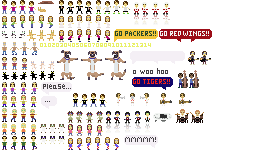
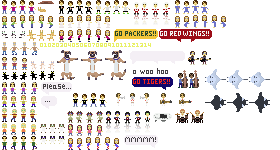
added hawaii scene

Changed region(s): [[0.6286, 0.0, 0.8286, 0.1867], [0.7429, 0.6133, 0.9714, 0.7467], [0.7143, 0.4533, 0.9714, 0.5867]]

diff --git a/lib_min/l7.min.js b/lib_min/l7.min.js
@@ -55,8 +55,8 @@ L7.CanvasBoardRenderMixin={render:function(a,b,c,d){this.angle&&(b.save(),b.rota
 0;i<r.length;++i)if(n=r[i],s=n.getScale(),_.isNumber(s)||(s=1),m=n.getColor())b.fillStyle=L7.Color.toCssString(m),m=a*s|0,q=n.getOffset(),l=k=0,q&&(k=a*q.x|0,l=a*q.y|0),q=a/2-m/2,b.fillRect((n.x-j)*(a+e)+e+q+h+k,(n.y-f)*(a+e)+e+q+g+l,m,m);for(i=0;i<this.freeActors.length;++i)if(e=this.freeActors[i],m=L7.Color.toCssString(e.color))b.fillStyle=m,b.fillRect(e.position.x-c,e.position.y-d,a,a);this.angle&&b.restore()}};
 (function(){L7.HitManager=function(){};L7.HitManager.prototype={detectHitsForActor:function(a){for(var b=a.pieces.length;b--;){var c=a.board.tileAt(a.pieces[b].position);c&&this._detectTileHits(c)}},detectHits:function(a){a.forEach(function(a){this._detectTileHits(a)},this)},_detectTileHits:function(a){a.each(function(b){_.isObject(b.owner)&&_.isObject(b.owner.hitDetection)&&("undefined"===typeof b.owner.hitDetection.enabled||b.owner.hitDetection.enabled.call(b.owner))&&_.each(b.owner.hitDetection,
 function(c,d){a.tag===d&&c.call(b.owner,a,a);a.each(function(e){e!==b&&e.owner&&e.owner.team===d&&c.call(b.owner,a,e.owner)},this)},this)},this)}}})();
-(function(){L7.ParallaxBoard=function(a){_.extend(this,a);this.boards=this.boards||[];this.boards.forEach(function(a,c){if(!_.isNumber(a.parallaxRatio))throw Error("ParallaxBoard: given a board that lacks a parallax ratio");_.isNumber(a.depth)||(a.depth=c)},this)};L7.ParallaxBoard.prototype={update:function(){var a=_.toArray(arguments);this.boards.forEach(function(b){b.update.apply(b,a)})},render:function(a,b,c,d,e){this.boards.forEach(function(f){!1!==f.visible&&f.render(a,b,c*f.parallaxRatio,d*
-f.parallaxRatio,e)})},clicked:function(a){for(var b=this.boards.length;b--&&!this.boards[b].clicked(a););}};Object.defineProperty(L7.ParallaxBoard.prototype,"viewport",{get:function(){return this.viewport},set:function(a){this.boards.forEach(function(b){b.viewport=a})},enumerable:!0});Object.defineProperty(L7.ParallaxBoard.prototype,"game",{get:function(){return this.game},set:function(a){this.boards.forEach(function(b){b.game=a})},enumerable:!0})})();
+(function(){L7.ParallaxBoard=function(a){_.extend(this,a);this.boards=this.boards||[];this.boards.forEach(function(a,c){a.parallaxRatio=a.parallaxRatio||0;_.isNumber(a.depth)||(a.depth=c)},this)};L7.ParallaxBoard.prototype={update:function(){var a=_.toArray(arguments);this.boards.forEach(function(b){b.update.apply(b,a)})},render:function(a,b,c,d,e){this.boards.forEach(function(f){!1!==f.visible&&f.render(a,b,c*f.parallaxRatio,d*f.parallaxRatio,e)})},clicked:function(a){for(var b=this.boards.length;b--&&
+!this.boards[b].clicked(a););}};Object.defineProperty(L7.ParallaxBoard.prototype,"viewport",{get:function(){return this.viewport},set:function(a){this.boards.forEach(function(b){b.viewport=a})},enumerable:!0});Object.defineProperty(L7.ParallaxBoard.prototype,"game",{get:function(){return this.game},set:function(a){this.boards.forEach(function(b){b.game=a})},enumerable:!0})})();
 (function(){L7.Piece=function(a){_.extend(this,a||{})};Object.defineProperty(L7.Piece.prototype,"position",{get:function(){if(this.owner)return this.owner.position.add(this.anchorDelta)},enumerable:!0})})();
 (function(){L7.StoryBoard=function(a){this.boardConfigs=a;this._setCurrentBoard(0)};L7.StoryBoard.prototype={_setCurrentBoard:function(a){this._currentBoardIndex=a;if(a=this.boardConfigs[a]){this._currentBoardConfig=a;var b=this._currentBoardConfig.board;this.width=b.width;this.height=b.height;this.tileSize=b.tileSize;this.borderWidth=b.borderWidth;this._currentDuration=a.duration;b.viewport=this.viewport;b.game=this.game}},_setNextBoard:function(){this._currentBoardConfig.board&&this._currentBoardConfig.board.destroy&&
 this._currentBoardConfig.board.destroy();this._setCurrentBoard(this._currentBoardIndex+1)},update:function(a,b){this._currentBoardConfig&&(this._currentBoardConfig.board.update(a,b),this._currentDuration-=a,0>=this._currentDuration&&this._setNextBoard())},render:function(){this._currentBoardConfig&&this._currentBoardConfig.board.render.apply(this._currentBoardConfig.board,arguments)},clicked:function(){this._currentBoardConfig&&this._currentBoardConfig.board.clicked.apply(this._currentBoardConfig.board,

diff --git a/demo/sarah/boards/Hawaii.js b/demo/sarah/boards/Hawaii.js
@@ -1,0 +1,87 @@
+(function() {
+	SAM.Hawaii = function(bgImage, fgImage, tileSize, spriteFactory) {
+		var levelLoader = new L7.ColorLevelLoader(bgImage, tileSize, 0);
+		var bgBoard = levelLoader.load();
+
+		levelLoader = new L7.ColorLevelLoader(fgImage, tileSize, 0);
+		var fgBoard = levelLoader.load();
+
+		var matt = spriteFactory.mattWetsuit(L7.p(29, 7));
+		var sarah = spriteFactory.sarahWetsuit(L7.p(38, 8));
+
+		fgBoard.addActors(matt, sarah);
+
+		var mantaLeftBoard = this._getMantaBoard({
+			from: 'right',
+			actors: [{ n: 'mantaGoingLeft', y: 30 }],
+			duration: 8000,
+			delay: 1800,
+			offsetTo: fgBoard.pixelWidth
+		}, spriteFactory, tileSize);
+
+		var mantaRightBoard = this._getMantaBoard({
+			from: 'left',
+			actors: [{ n: 'mantaGoingRight', y: 40 }],
+			duration: 7000,
+			delay: 2000,
+			offsetTo: -fgBoard.pixelWidth
+		}, spriteFactory, tileSize);
+
+		var parallax = new L7.ParallaxBoard({
+			boards: [bgBoard, fgBoard, mantaLeftBoard, mantaRightBoard],
+			width: 60,
+			height: 60
+		});
+
+		fgBoard.ani.together(Infinity, function(ani) {
+			ani.frame({
+				targets: [matt, sarah],
+				pieceSetIndex: 1,
+				rate: 150,
+				looping: 'backforth',
+				loops: Infinity
+			});
+			ani.repeat(Infinity, function(ani) {
+				ani.sequence(function(ani) {
+					ani.tween({
+						targets: [fgBoard],
+						property: 'offsetY',
+						from: 0,
+						to: 12,
+						easing: 'easeInOutQuad',
+						duration: 3000
+					});
+					ani.waitBetween(400, 1000);
+					ani.tween({
+						targets: [fgBoard],
+						property: 'offsetY',
+						from: 12,
+						to: 0,
+						easing: 'easeInOutQuad',
+						duration: 2000
+					});
+				});
+			});
+		});
+
+		return parallax;
+	};
+
+	SAM.Hawaii.prototype._getMantaBoard = function(config, spriteFactory, tileSize) {
+		_.extend(config, {
+			tileSizeRatio: 1,
+			positionTweak: 0
+		});
+
+		var context = {
+			spriteFactory: spriteFactory,
+			tileSize: tileSize,
+			baseWidth: 60,
+			baseHeight: 60
+		};
+
+
+		return SAM.Wedding.prototype._getRow.call(context, config);
+	};
+})();
+

diff --git a/demo/sarah/SpriteFactory.js b/demo/sarah/SpriteFactory.js
@@ -4,6 +4,40 @@
 	};
 
 	SAM.SpriteFactory.prototype = {
+		mantaGoingRight: function(position) {
+			return new L7.Actor({
+				framesConfig: {
+					src: this.image,
+					width: 22,
+					height: 21,
+					direction: 'horizontal',
+					sets: [[0], [0,1,2]],
+					initialSet: 0,
+					initialFrame: 0,
+					anchor: L7.p(0, 0),
+					offset: L7.p(205, 93)
+				},
+				position: position || L7.p(0, 0)
+			});
+		},
+
+		mantaGoingLeft: function(position) {
+			return new L7.Actor({
+				framesConfig: {
+					src: this.image,
+					width: 22,
+					height: 21,
+					direction: 'horizontal',
+					sets: [[0], [0,1,2]],
+					initialSet: 0,
+					initialFrame: 0,
+					anchor: L7.p(0, 0),
+					offset: L7.p(205, 70)
+				},
+				position: position || L7.p(0, 0)
+			});
+		},
+
 		mmmm: function(position) {
 			return new L7.Actor({
 				framesConfig: {
@@ -89,6 +123,23 @@
 			});
 		},
 
+		mattWetsuit: function(position) {
+			return new L7.Actor({
+				framesConfig: {
+					src: this.image,
+					width: 9,
+					height: 11,
+					direction: 'horizontal',
+					sets: [[0], [1, 2, 3]],
+					initialSet: 0,
+					initialFrame: 0,
+					anchor: L7.p(0, 0),
+					offset: L7.p(173, 0)
+				},
+				position: position || L7.p(0, 0)
+			});
+		},
+
 		mattRace: function(position) {
 			return new L7.Actor({
 				framesConfig: {
@@ -152,6 +203,23 @@
 					initialFrame: 0,
 					anchor: L7.p(0, 0),
 					offset: L7.p(0, 15)
+				},
+				position: position || L7.p(0, 0)
+			});
+		},
+
+		sarahWetsuit: function(position) {
+			return new L7.Actor({
+				framesConfig: {
+					src: this.image,
+					width: 9,
+					height: 10,
+					direction: 'horizontal',
+					sets: [[0], [2, 1, 2, 4, 5, 4]],
+					initialSet: 0,
+					initialFrame: 0,
+					anchor: L7.p(0, 0),
+					offset: L7.p(173, 15)
 				},
 				position: position || L7.p(0, 0)
 			});

diff --git a/demo/sarah/sam.js b/demo/sarah/sam.js
@@ -62,6 +62,10 @@
 				duration: 12000
 			},
 			{
+				board: new SAM.Hawaii(images.oceanBg, images.oceanFg, tileSize, spriteFactory),
+				duration: 13000
+			},
+			{
 				board: new SAM.PoolSchoeffLump(images.pool, tileSize, spriteFactory),
 				duration: 15000
 			},
@@ -108,7 +112,7 @@
 			},
 			{
 				board: new SAM.LivingRoom(images.livingRoom, tileSize, spriteFactory),
-				duration: 31000
+				duration: 21000
 			},
 			{
 				board: new SAM.Skydiving(images.skydiving, images.clouds, images.landscape, tileSize, spriteFactory),
@@ -177,6 +181,8 @@
 					'resources/images/dadTractor.png',
 					'resources/images/iowaClouds.png',
 					'resources/images/casabonita.png',
+					'resources/images/oceanBg.png',
+					'resources/images/oceanFg.png',
 					'resources/images/outro.png'
 				],
 				loadNow: true,

diff --git a/demo/sarah/index.debug.html b/demo/sarah/index.debug.html
@@ -45,6 +45,7 @@
 	<script type="text/javascript" src="boards/Intro.js"></script>
 	<script type="text/javascript" src="boards/Outro.js"></script>
 	<script type="text/javascript" src="boards/Race.js"></script>
+	<script type="text/javascript" src="boards/Hawaii.js"></script>
 	<script type="text/javascript" src="boards/PoolSchoeffLump.js"></script>
 	<script type="text/javascript" src="boards/PoolSchoeffOutside.js"></script>
 	<script type="text/javascript" src="boards/CatLine.js"></script>

diff --git a/lib_min/l7.debug.js b/lib_min/l7.debug.js
@@ -2035,9 +2035,7 @@ L7.CanvasBoardRenderMixin = {
 		this.boards = this.boards || [];
 
 		this.boards.forEach(function(board, i) {
-			if (!_.isNumber(board.parallaxRatio)) {
-				throw new Error("ParallaxBoard: given a board that lacks a parallax ratio");
-			}
+			board.parallaxRatio = board.parallaxRatio || 0;
 			if (!_.isNumber(board.depth)) {
 				board.depth = i;
 			}

diff --git a/lib/board/ParallaxBoard.js b/lib/board/ParallaxBoard.js
@@ -4,9 +4,7 @@
 		this.boards = this.boards || [];
 
 		this.boards.forEach(function(board, i) {
-			if (!_.isNumber(board.parallaxRatio)) {
-				throw new Error("ParallaxBoard: given a board that lacks a parallax ratio");
-			}
+			board.parallaxRatio = board.parallaxRatio || 0;
 			if (!_.isNumber(board.depth)) {
 				board.depth = i;
 			}

diff --git a/demo/sarah/boards/Wedding.js b/demo/sarah/boards/Wedding.js
@@ -187,7 +187,7 @@
 					targets: [board],
 					property: 'offsetX',
 					from: board.offsetX,
-					to: 0,
+					to: config.offsetTo || 0,
 					duration: config.duration
 				});
 			});
